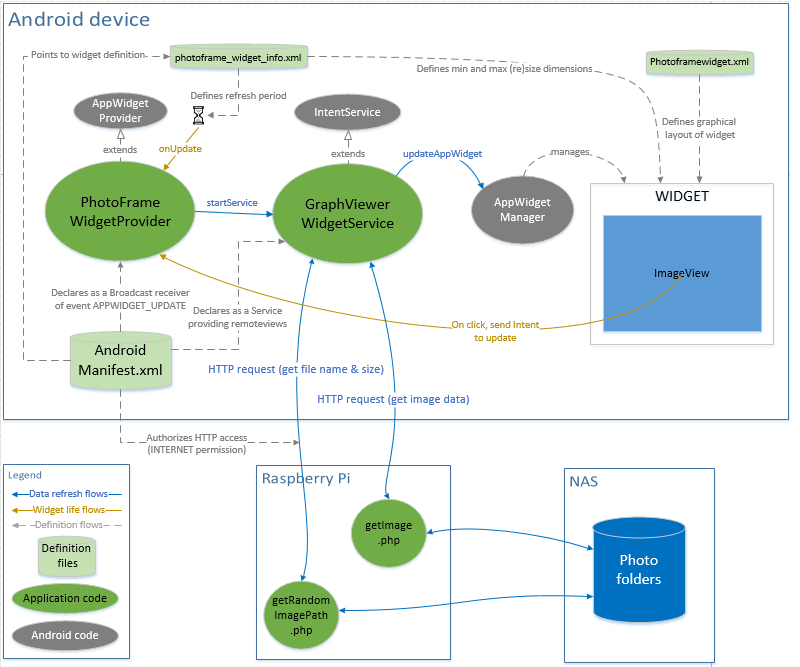
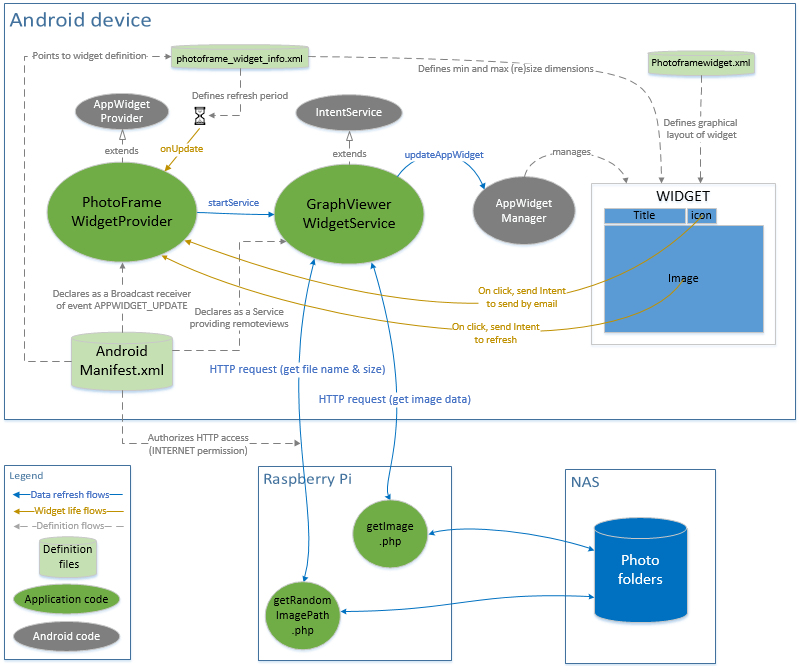
added email function in photoframewidget

diff --git a/pages/PhotoFrameWidget/index.html b/pages/PhotoFrameWidget/index.html
@@ -68,9 +68,14 @@
 <h3 id="introduction">Introduction</h3>
 
 <ul>
-  <li>I aimed for a minimalistic design: just a plain display of a photo, with no associated UI/buttons, and an automatic refresh to display a new photo periodically. I only added the display of the image path &amp; name, which helps to remember where/when the photo is from when it is picked randomly from a set of 50.000+ images&#8230;</li>
+  <li>I aimed for a minimalistic design: just a plain display of a photo, with no minimal associated UI/buttons, and an automatic refresh to display a new photo periodically. So the widget only has:
+    <ul>
+      <li>the photo to be displayed. A user touch on it triggers the reload of a new photo.</li>
+      <li>the display of the image path &amp; name, which helps to remember where/when the photo is from when it is picked randomly from a set of 50.000+ images&#8230;</li>
+      <li>a small email icon, to send the currently displayed image as an attachment.</li>
+    </ul>
+  </li>
   <li>Since I did not want to rely on any local storage, the source of the images is a remote shared folder on a NAS accessed via the local network.</li>
-  <li>The only possible user interaction is to touch the widget, which forces the reload of a new photo.</li>
 </ul>
 
 <h3 id="implementation">Implementation</h3>
@@ -117,15 +122,21 @@
 <p>The widget graphical layout consists of:</p>
 
 <ul>
-  <li>a <code>LinearLayout</code> with one <code>ImageView</code> to receive the bitmap, and a <code>TextView</code> above it to display the image path &amp; name.</li>
-  <li>a progress bar that is overlapped with the aforementioned LinearLayout by placing both in a <code>RelativeLayout</code> and specifiying <code>android:layout_centerHorizontal="true"</code> and <code>android:layout_centerVertical="true"</code><br /><br /></li>
+  <li>a <code>LinearLayout</code> with
+    <ul>
+      <li>a <code>RelativeLayout</code> containing a <code>TextView</code> to display the image path &amp; name, and an <code>ImageView</code> for the email icon.</li>
+      <li>one <code>ImageView</code> to receive the bitmap</li>
+    </ul>
+  </li>
+  <li>around this, a <code>RelativeLayout</code> containing the above layout and a <code>ProgressBar</code>, that will be invisible by default, and made visible when loading is in progress. This way, the progress bar is layered on top of the rest of the widget
+<br /><br /></li>
 </ul>
 
 <p>The <code>AndroidManifest.xml</code> contains the minimal setup required for a homescreen widget, and refers to the two main classes:</p>
 
 <h5 id="photoframewidgetprovider">PhotoFrameWidgetProvider</h5>
 
-<p>PhotoFrameWidgetProvider class handles the APP_UPDATE events that are triggered every 30 minutes, delegating the refresh of the widget&#8217;s <code>RemoteViews</code> to the background PhotoFrameWidgetService.</p>
+<p>PhotoFrameWidgetProvider class handles the APP_UPDATE events that are triggered every 30 minutes, delegating the refresh of the widget&#8217;s <code>RemoteViews</code> to the background PhotoFrameWidgetService. It also deals with the user intent to send the currently displayed photo as an email attachment.</p>
 
 <h5 id="photoframewidgetservice">PhotoFrameWidgetService</h5>
 
@@ -137,10 +148,12 @@
   <li>the reason of the <strong>two-pass approach</strong> is that knowing the image size in advance of receiving the image data allows to specify an appropriate subsampling factor. Otherwise, the decoding to a Bitmap would happen by default at the original resolution, which can take huge amounts of memory for large photos, that the android device might not be able to provide.</li>
   <li>therefore to be able to specify this <strong>subsampling</strong>, the <code>BitmapFactory::decodeResourceStream</code> that is normally used to create bitmaps from local resources is used, passing along a <code>BitmapFactory:Options</code> object with parameter <code>inSampleSize</code>equal to the ratio of the original image size to the (much smaller) target rendered image size.</li>
   <li>since even downsampled images might still be too big, we first check for available memory before decoding resampled image.</li>
-  <li>the <strong>progress bar</strong> is initially invisible: whenever onUpdate is called, is becomes visible, and is made invisible again upon completion of the image reloading service execution.&lt;</li>
+  <li>the <strong>progress bar</strong> is initially invisible: whenever onUpdate is called, is becomes visible, and is made invisible again upon completion of the image reloading service execution.</li>
   <li>the <strong>orientation</strong> of the image (gathered from its EXIF data by the server) is taken into account to rotate it before display, so that it always shows heads-up.</li>
-  <li>I also experimented with doing subsampling and rotation on server side to spare network bandwidth, but it turns out that in my case it was much slower than doing it on the client side (the server running on a raspberry pi model B).</li>
+  <li>I also experimented with doing subsampling and rotation on server side to spare network bandwidth, but it turns out that in my case it was much slower than doing it on the client side (the server running on a raspberry pi model B).<br /><br /></li>
 </ul>
+
+<p>Sending the photo as an email attachment boils down to sending an ACTION_SEND intent, with the content of the photo filled into the EXTRA_STREAM field. Whatever email client happens to be installed on the device	will receive this intent and handle it.</p>
 
 <h3 id="result">Result</h3>
 
